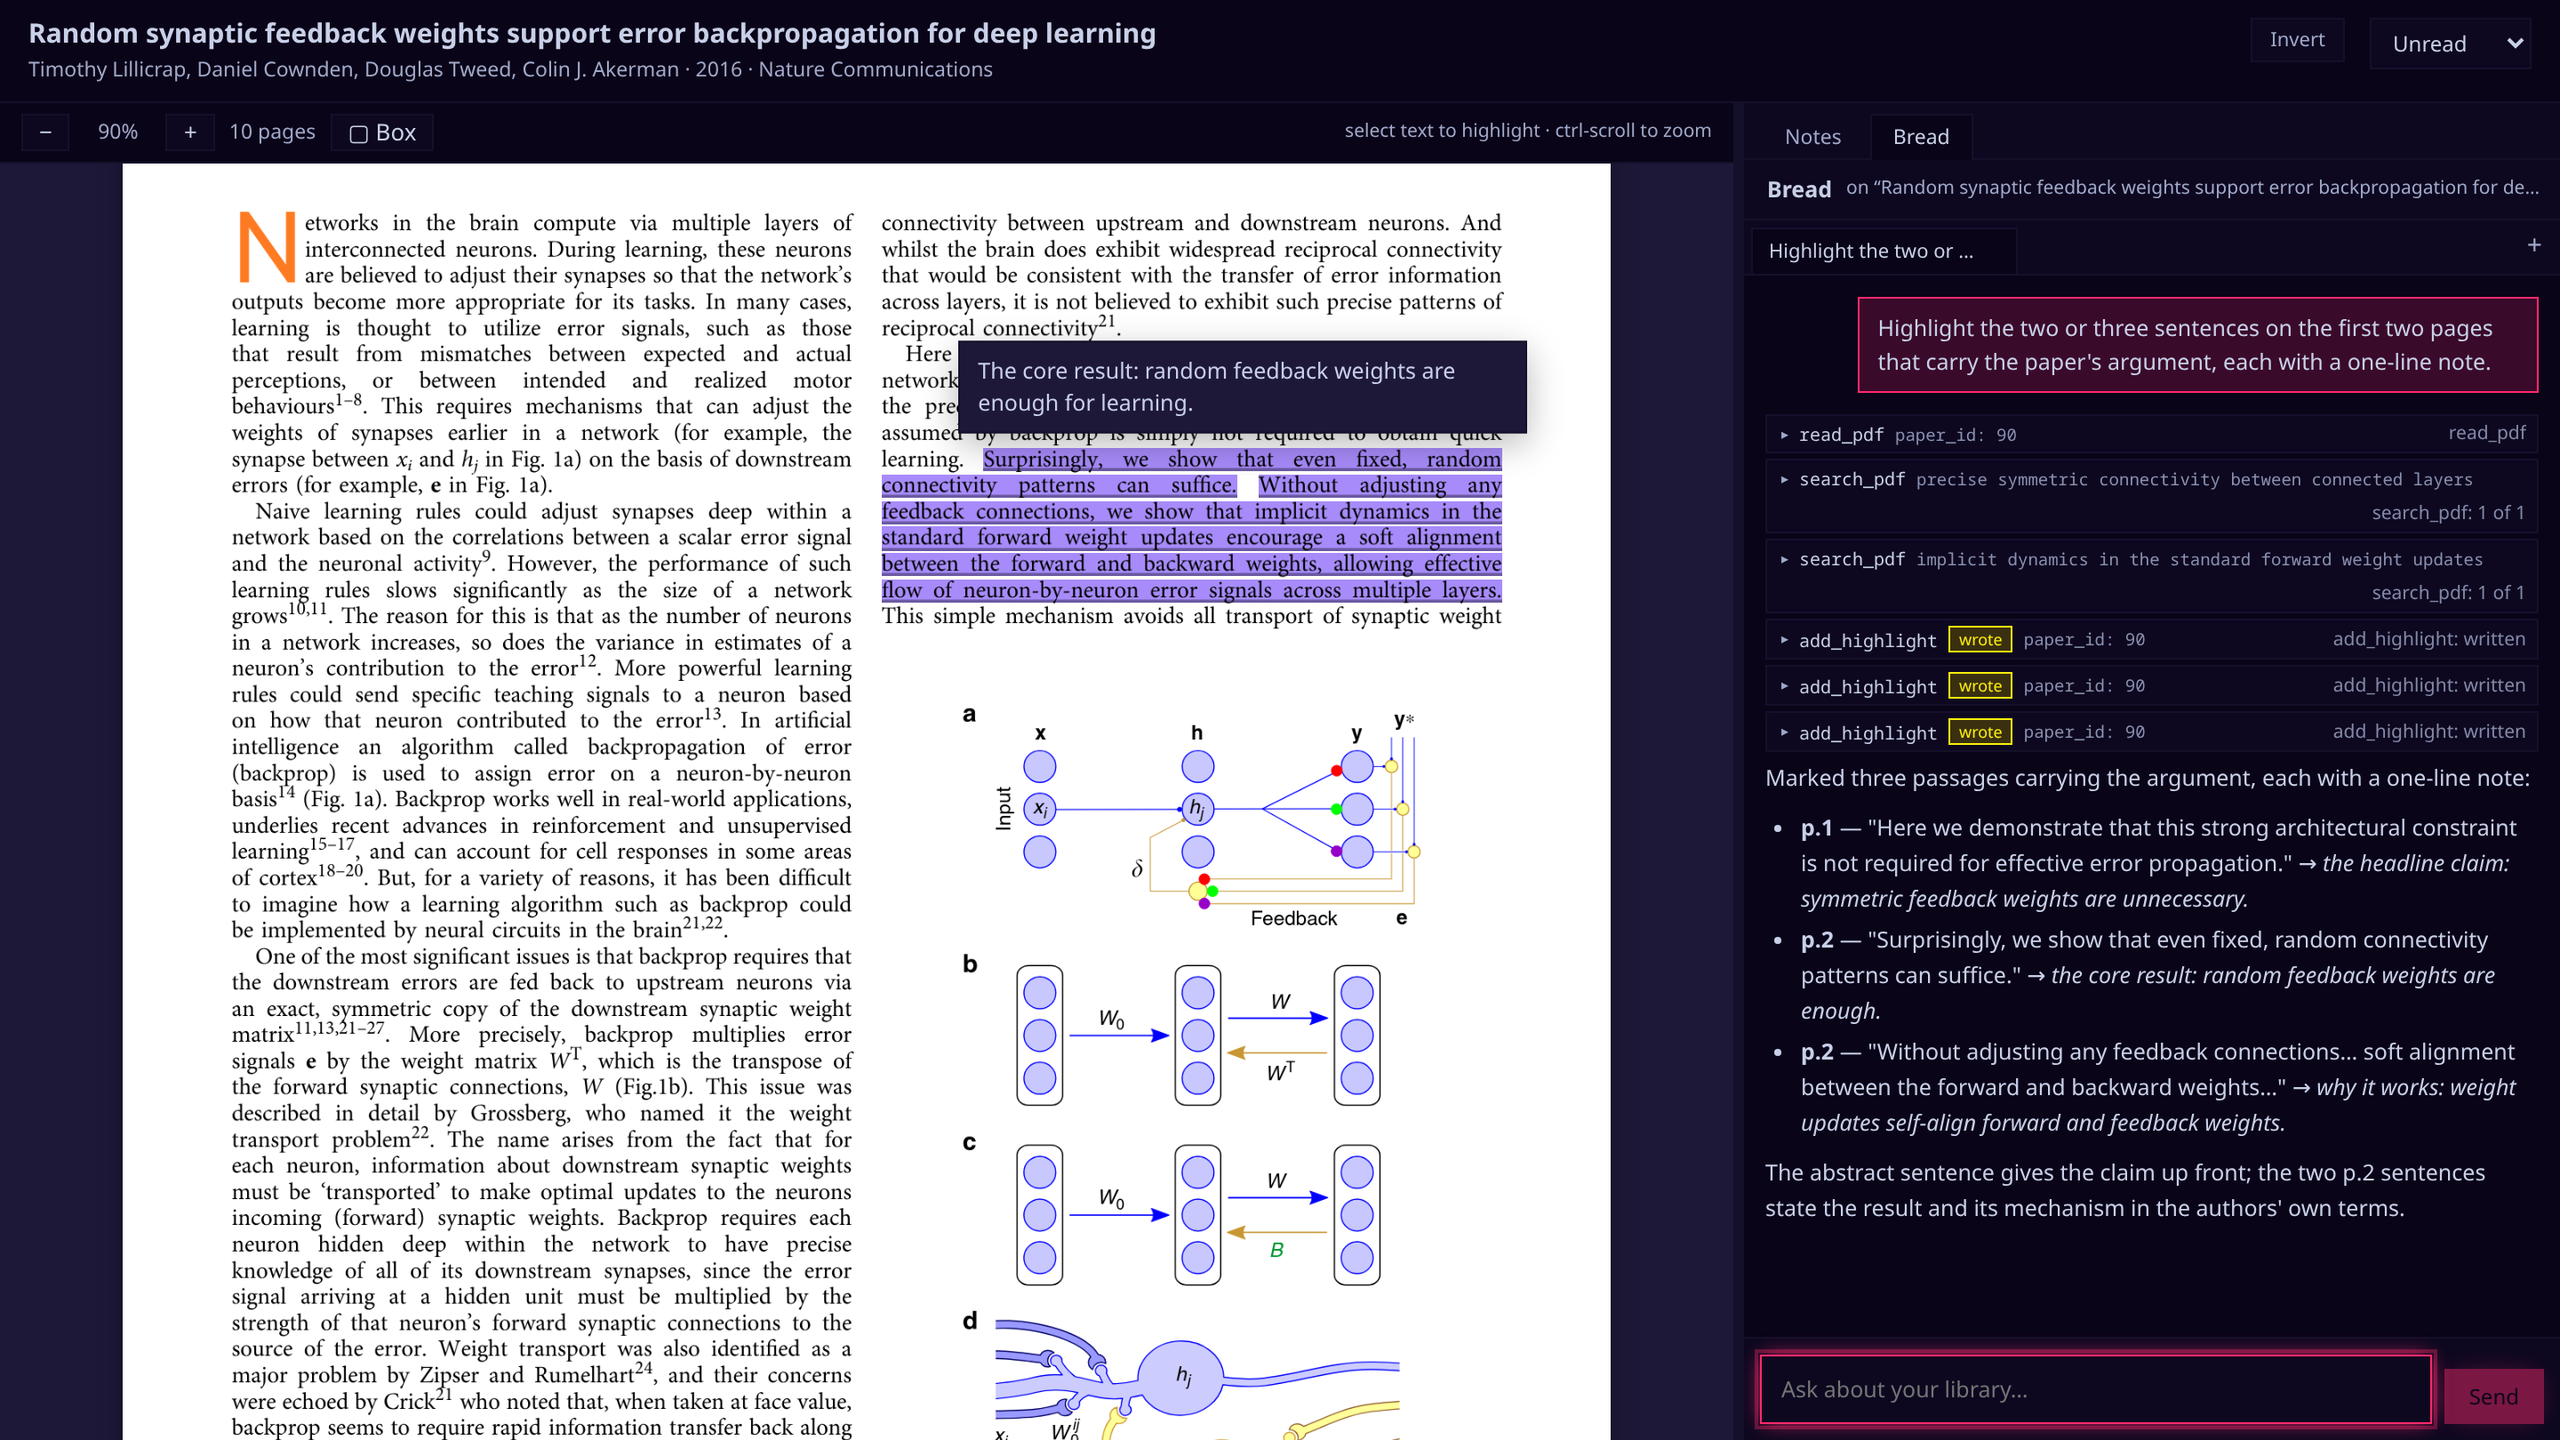
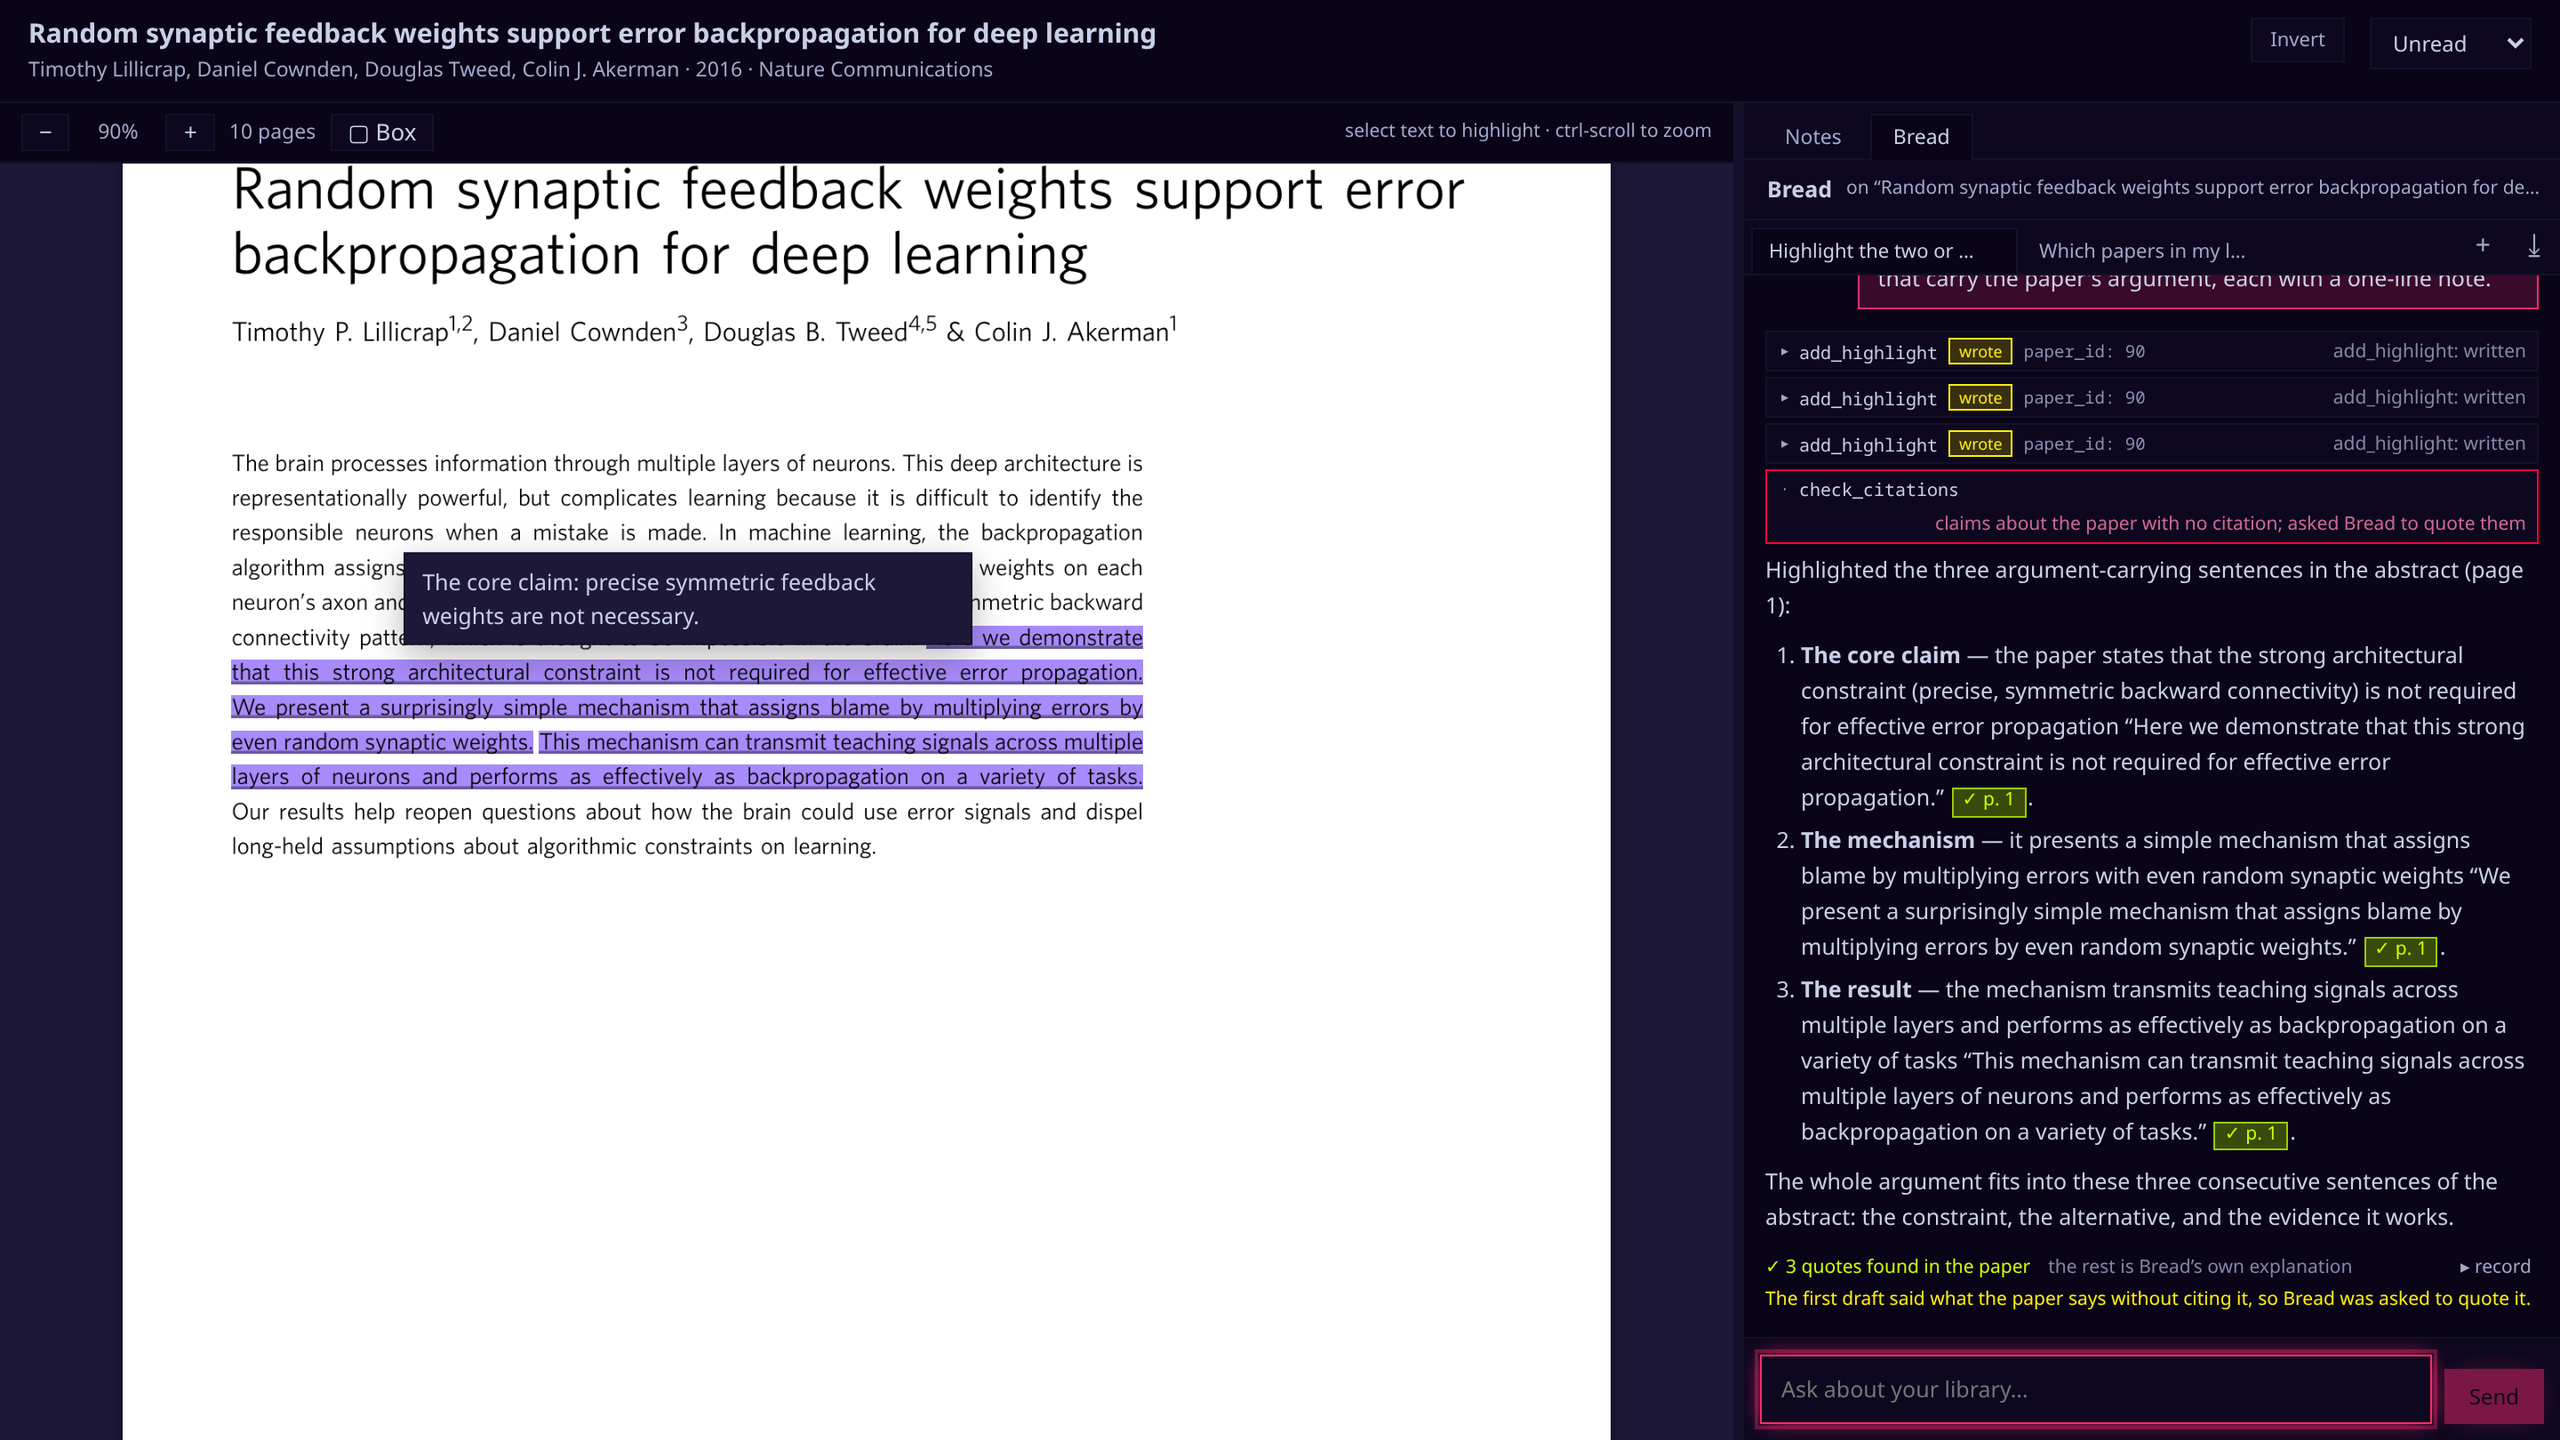
Show Bread's checked answers in the README, and the paper preview where papers are added
New screenshots from the live app: the three kinds of answer side by side,
a cited passage opened in the reader with the turn's record, a question the
paper cannot answer, and the preview of a paper before it is saved. Bread is
introduced near the top, and the grounding section explains how a quote is
checked.

diff --git a/README.md b/README.md
@@ -8,11 +8,29 @@ Papers are added one at a time, by you. Adding one records the identifiers of
 everything it cites but creates no other papers; when you later add one of
 those, the link appears on its own.
 
+**Bread**, the research assistant built in, reads with you, and is built to be
+checkable:
+
+- **Checked quotes.** It may explain from what the model knows, but when it says
+  what a paper says, it quotes the paper. The server finds every quote word for
+  word in the PDF before the answer is shown; it is a text search, not another
+  model. Papers it suggests are checked too: each identifier is looked up and
+  its real title compared with the one given.
+- **Labelled answers.** Each answer says which kind of statement it makes: the
+  paper's, quoted and checked; the library's, from its records; or Bread's own.
+- **A record of every turn.** The model that answered, the prompt it saw and
+  the PDFs it read are kept with their hashes.
+- **Measured behaviour.** How often it is right, cites, and admits a gap is
+  scored on [questions with known answers](eval/README.md).
+
+[How it works](#what-it-says-and-what-it-checked).
+
 ![Left alone, the grid lights one paper at a time: magenta lines to the work it cites, cyan to the work that cites it](docs/trail.gif)
 
-**[Watch the 90-second tour](https://youtu.be/z0K-n6V5vAs)**: the grid, a paper
-and its author, Bread on the library, then reading. It covers highlighting,
-asking about a passage, and Bread marking the page itself.
+**[Watch the two-and-a-half-minute tour](https://youtu.be/z0K-n6V5vAs)**: the
+grid, a paper and its author, Bread on the library, then reading. It covers
+highlighting, asking about a passage, answers whose quotes are checked against
+the PDF, a question the paper cannot answer, and Bread marking the page itself.
 
 ## Status
 
@@ -119,6 +137,11 @@ The same work is often indexed several times under different years: a journal
 article, a book chapter, a later reissue. The Add screen lists every record it
 finds and flags when an earlier one exists, so you can pick before saving.
 
+<img src="docs/proposal.png" width="760" alt="The preview of a paper before it is saved. Four sources answered at once: OpenAlex, Semantic Scholar, Crossref and Unpaywall. They disagree on the year, and the card says which it kept and why, and that the same work is indexed a second time as a preprint. Below are the merged record, the authors with their affiliations and ORCIDs, and the full abstract. Nothing is saved until Add to library is pressed.">
+
+The same preview opens from anywhere a paper you do not hold appears: a
+reference, an author's other work, or a paper Bread suggests.
+
 | Source | Supplies | Key |
 |---|---|---|
 | OpenAlex | identity, authors, institutions, topics, references | free key, advised |
@@ -147,7 +170,7 @@ There is no pirated-source integration.
 
 ## Reading
 
-![The reader: Bread has marked the passages that carry the argument, each with a note, and explains its choices beside them](docs/reader.png)
+![The reader: Bread has marked the passages that carry the argument, each with a note. Its first draft quoted the paper without citations, so it was sent back once, and the answer beside the page now carries three quotes, each found in the PDF](docs/reader.png)
 
 The reader opens in its own tab: PDF on the left, and on the right two tabs,
 your notes and Bread.
@@ -188,7 +211,17 @@ the open PDF. It writes:
 - author homepages, biographies and portraits
 - PDFs, attached from a URL
 
-It cannot add papers. It proposes one and you decide.
+It cannot add papers. It proposes one and you decide: a suggestion is a button
+in the answer, and pressing it opens the paper's [preview](#adding-papers),
+fetched from the sources there and then, with nothing saved until you add it.
+
+Suggestions are checked like quotes. Before the button appears, the identifier
+Bread gave is looked up, and the title it really has is compared with the title
+Bread wrote. One under another paper's identifier loses its button, says what
+that identifier really is, and sends Bread back once to find the right one.
+Making this README is how that check came about: asked for a follow-up to
+feedback alignment, Bread wrote an arXiv id that belongs to a paper on
+Chern-Simons theory.
 
 Tool calls stream into the conversation as they happen, so a wrong action can be
 caught while it runs. SQL access is read-only through a separate connection, not
@@ -198,28 +231,59 @@ a pattern check.
 
 Bread is an assistant, not a retrieval tool: it explains, connects and draws on
 what the model knows, and that is allowed. What is not allowed is for the
-model's own knowledge to look like the paper's. So statements come in kinds,
-and each is labelled for what it is.
+model's own knowledge to look like the paper's. So every answer says which kind
+of statement it is making.
 
-- **What a paper says** carries a quote. Bread writes
-  `[p. 4](cite:12 "the exact words")`, and after it answers the server looks for
-  every quote word for word in that paper's PDF, or its abstract when there is
-  no PDF. No model is involved in the check. Typesetting differences are
-  forgiven: case, punctuation, a word hyphenated across a line, a ligature, TeX
-  for a Greek letter, an ellipsis that skips words. A changed word is not.
-  - A quote that is found becomes a chip showing the page it is really on.
-    Click it to see the passage highlighted in the reader.
-  - One that is not found is struck through, not hidden.
-  - Before the answer is shown, Bread gets one round to correct any quote that
-    was not found, and that round shows in the tool trail.
-- **Bread's own explanation** carries no citation, and the line under each
-  answer says so: "3 quotes found in the paper · the rest is Bread's own
-  explanation".
-- **Library facts** come from tool results and need no quote.
+![Three answers side by side. Asked what the paper reports, Bread quotes it, and the quote is marked found on page 4. Asked which papers build on this one, it answers from the library, labelled as such. Asked to explain from its own knowledge, it does, labelled as its own](docs/three-kinds.png)
 
-A found quote proves the words are in the paper. It does not prove they
-support the sentence they sit in. The chip is there so that judgement is one
-click away.
+| Kind | The line under the answer | What backs it |
+|---|---|---|
+| What a paper says | ✓ 2 quotes found in the paper · the rest is Bread's own explanation | each quote, found word for word in the PDF by the server |
+| What your library says | From your library's records | the library's own database, read through tools |
+| What Bread knows | Bread's own knowledge: nothing was looked up | nothing: it is the model's explanation, marked as such |
+
+#### How a quote is checked
+
+When Bread says what a paper says, it writes the exact words inside a citation
+link. `128` is the paper's id in your library:
+
+```
+[p. 5](cite:128 "gets 1.36% test errors on MNIST after 60 epochs")
+```
+
+After it answers, and before you see it, the server:
+
+1. finds every such link and takes out the paper id and the quoted words
+2. opens that paper's PDF and reads the text of every page
+3. reduces both to lowercase letters and digits, so line breaks, hyphenation,
+   ligatures and punctuation make no difference
+4. searches for the quote, page by page
+
+Found, it becomes a **✓ chip** showing the page it is really on; click it and
+the reader opens at the passage. Not found, it is struck through, not hidden.
+No model takes part: it is a text search, so the same answer checked twice gets
+the same verdict, and a chip cannot be faked by the model writing one.
+
+![The reader opened at the cited passage, highlighted on page 4, beside the answer with its checked quote and the record of the turn: the model that served it, the PDF it read with its hash, the prompt and app version](docs/grounding.png)
+
+What the check cannot do, and what covers it:
+
+- **Plain prose has nothing to search.** If Bread states a fact without a
+  citation, the label calls it Bread's own explanation. An answer that says
+  what a paper says ("the authors report…", "(p. 3)") but cites none of it is
+  sent back once to quote it, and the reader screenshot above shows exactly
+  that: a `check_citations` step, then three checked quotes.
+- **A found quote proves presence, not support.** The words are in the paper;
+  whether they back the sentence is for the reader to judge, one click away.
+  The [evaluation](eval/README.md) measures how often they do.
+- A quote whose words the sentence does not already say is shown before its
+  chip, so a fact never hides inside a tooltip.
+
+When the paper does not contain the answer, Bread says so, and the line under it
+shows the server's own evidence: the literal searches of the paper's text that
+found nothing.
+
+<img src="docs/answer-not-in-paper.png" width="460" alt="Asked for a CIFAR-10 result the paper never reports, Bread says the paper does not report one, and the line reads: searched the paper's text for CIFAR, not found">
 
 Every turn is recorded: the system prompt as sent (with the page you were
 reading), the model the provider reports serving each round, the settings sent,
